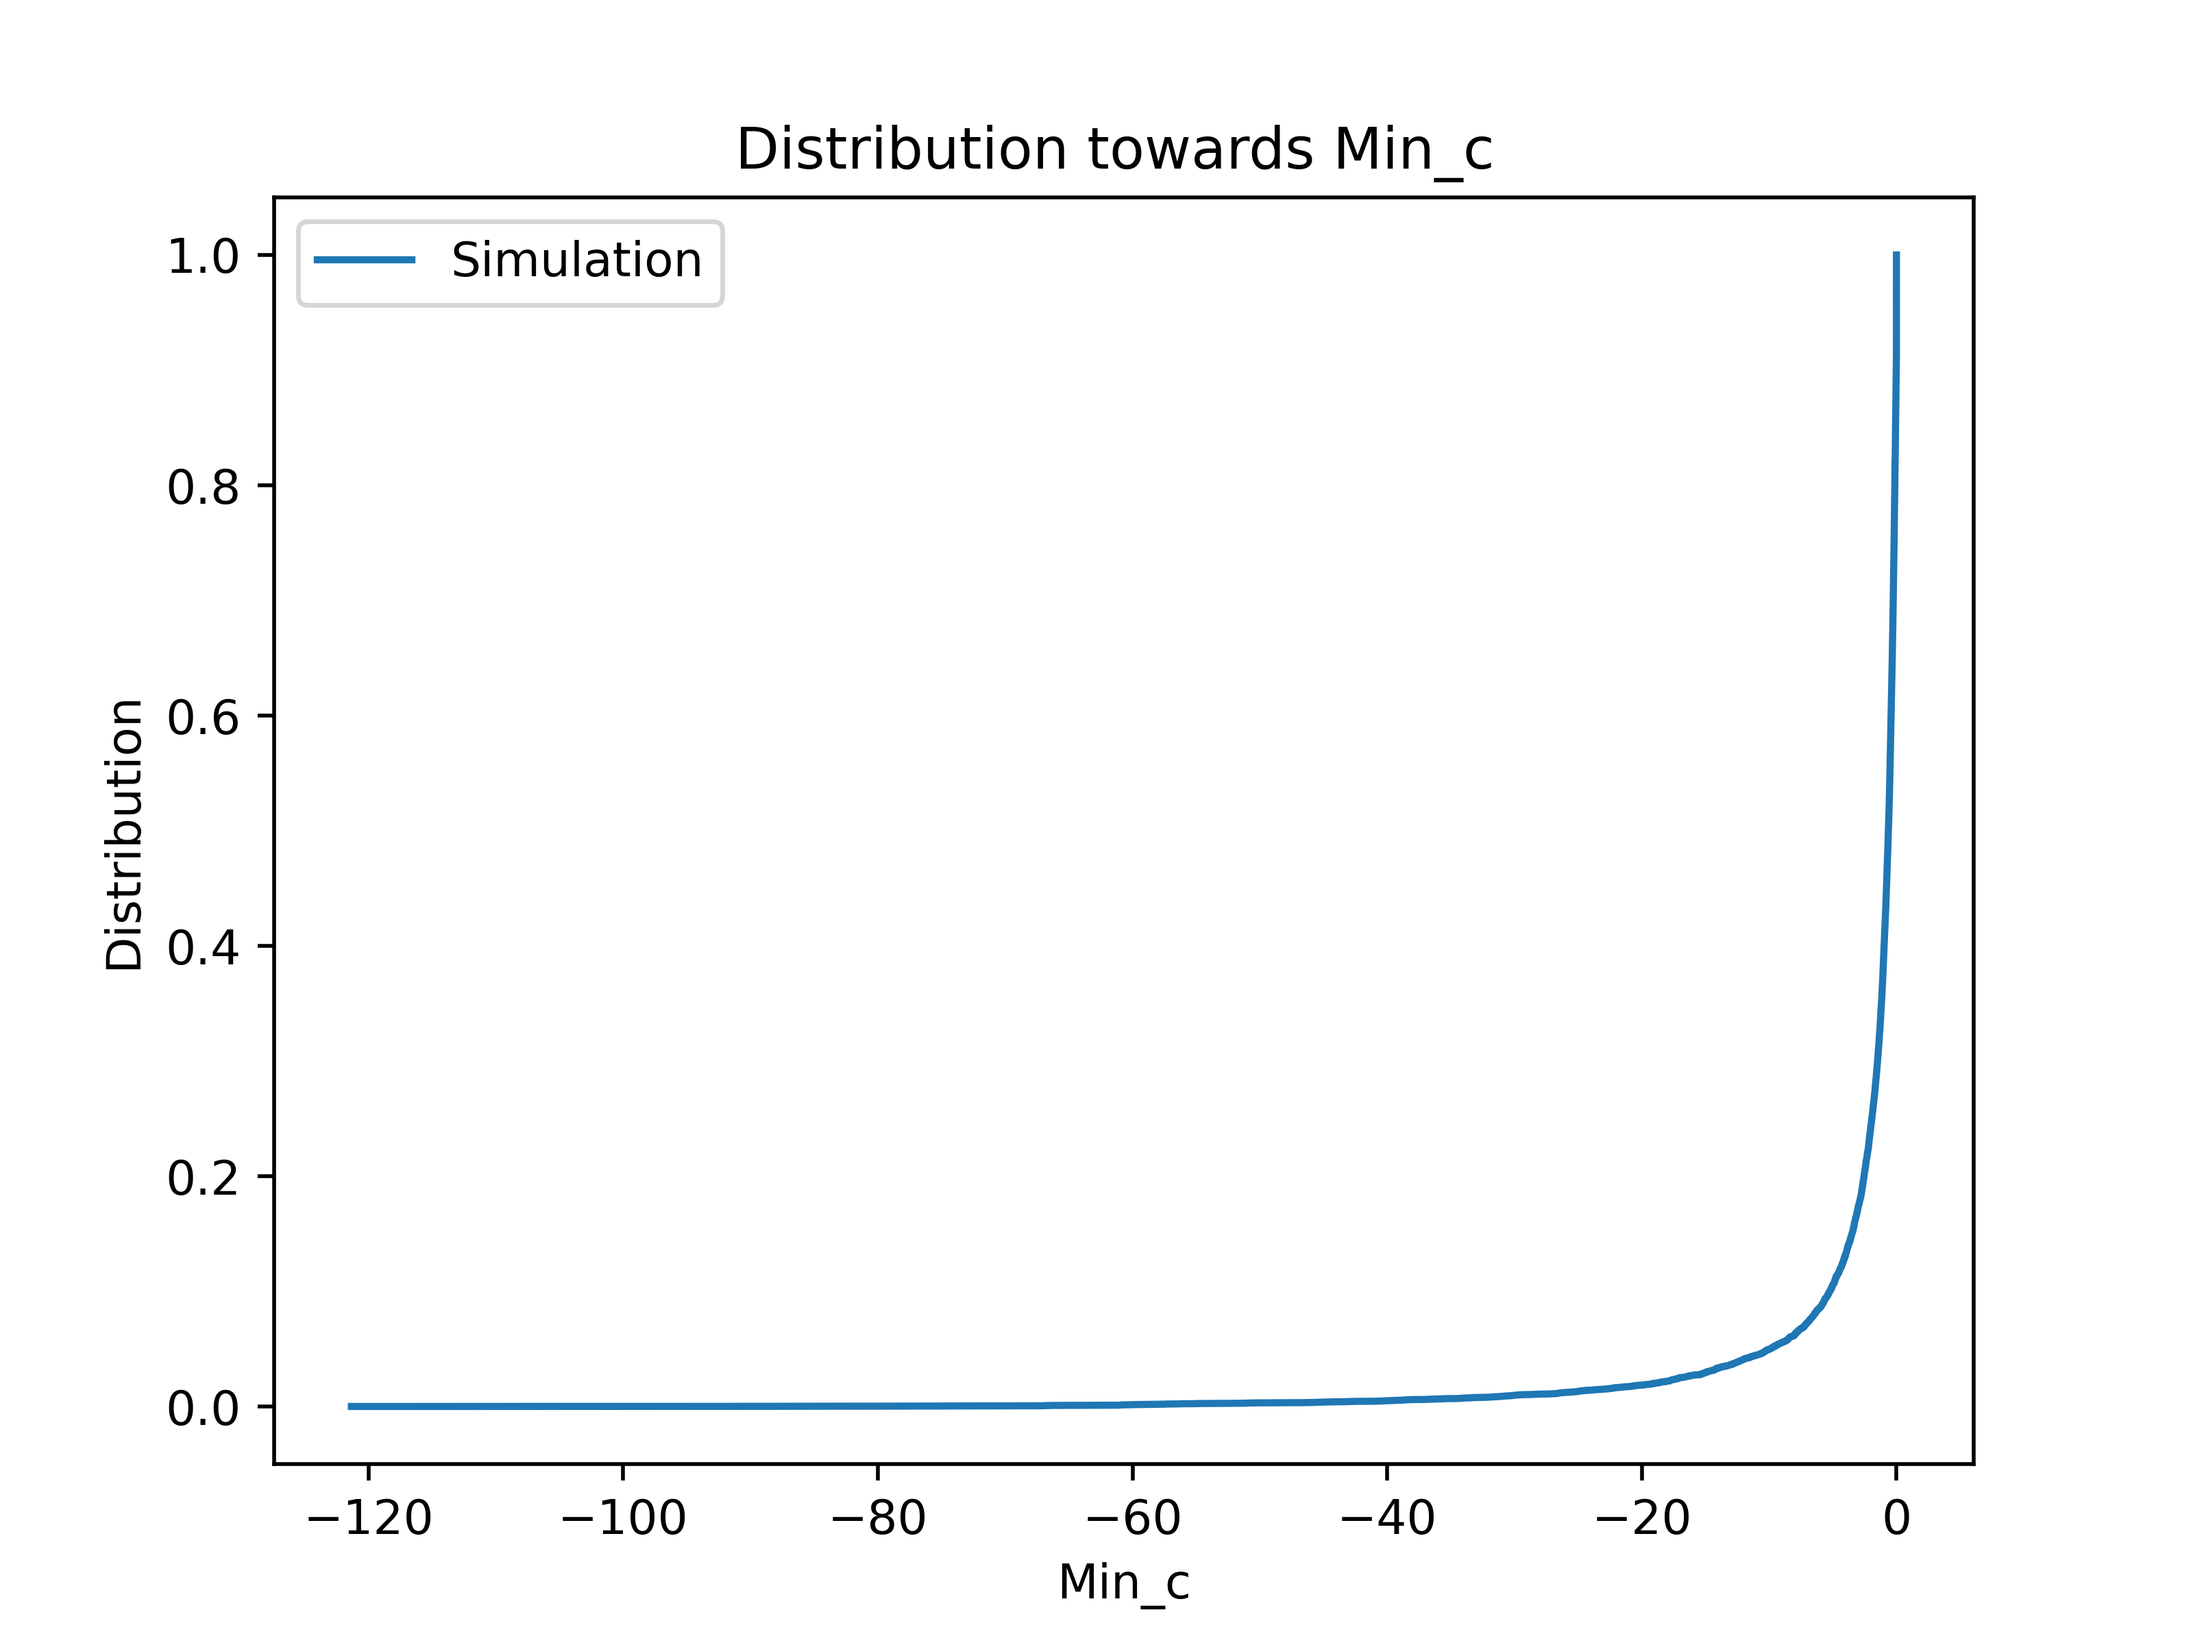
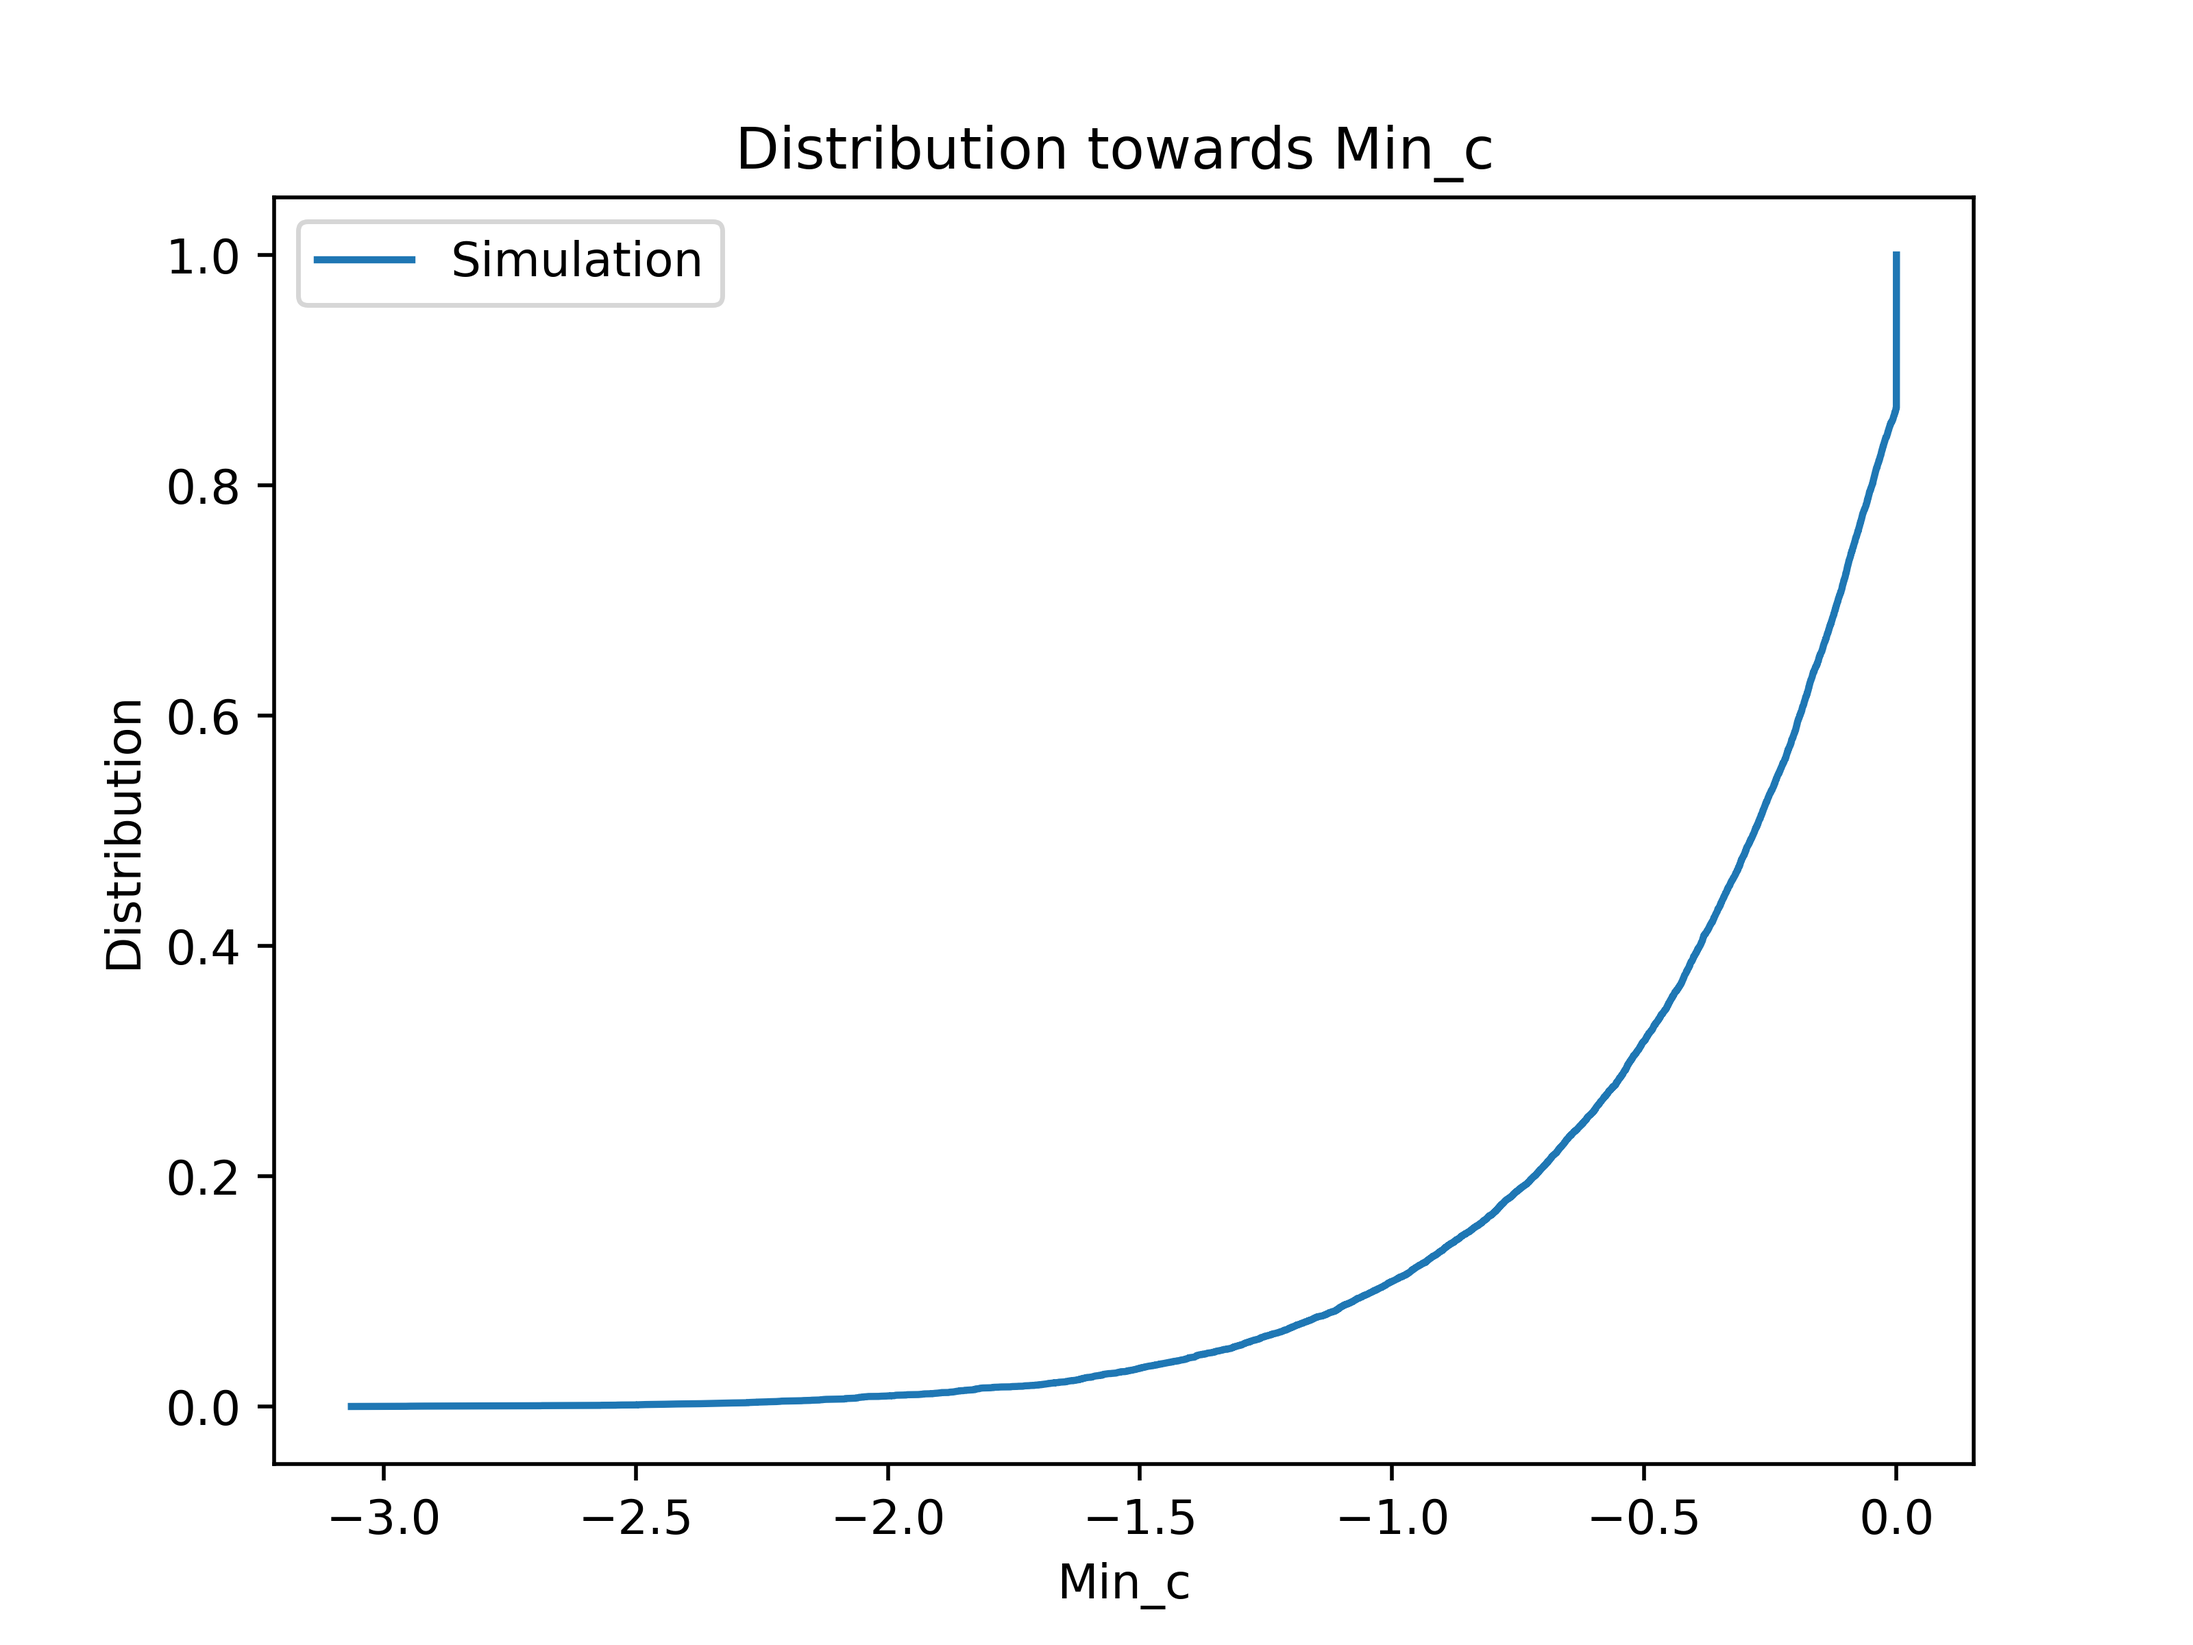
Change minimum settings

diff --git a/main.py b/main.py
@@ -1,10 +1,10 @@
-import math
-
 import numpy as np
-import random
+import math
 import matplotlib
 import matplotlib.pyplot as plt
 import os
+import random
+
 from functools import partial
 from scipy import optimize, stats
 
@@ -281,8 +281,8 @@ if __name__ == '__main__':
     # Problem 3.2
     # Distribution for Min_c of Brownian motion when a_1 = 0, a_2 = 1
     def brownian_min_c_distribution():
-        f = partial(simulate_brownian, 0, 1, 200000, 0.01, return_min=True)
-        a, d = multiple_simulate(f, True, 10000, True)
+        f = partial(simulate_brownian, 0, 1, 200, 0.01, return_min=True)
+        a, d = multiple_simulate(f, True, 20000, True)
         return d
     print('Running Brownian Min_c distribution ...')
     draw(brownian_min_c_distribution, 'Min_c', 'Distribution', filename='figures/brownian_min_c_distribution')
